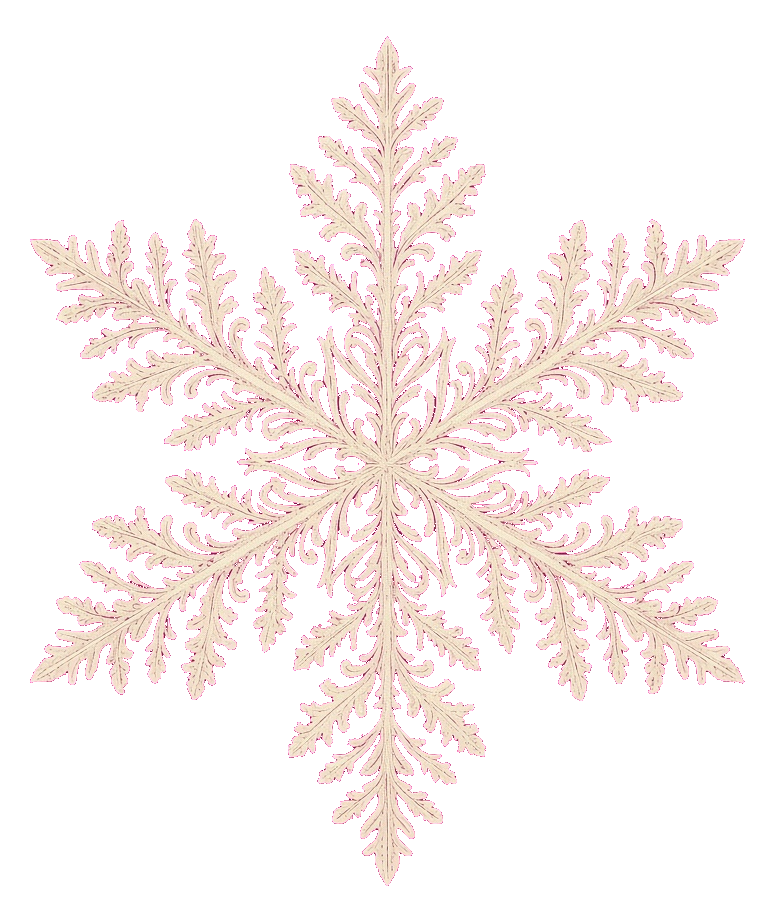
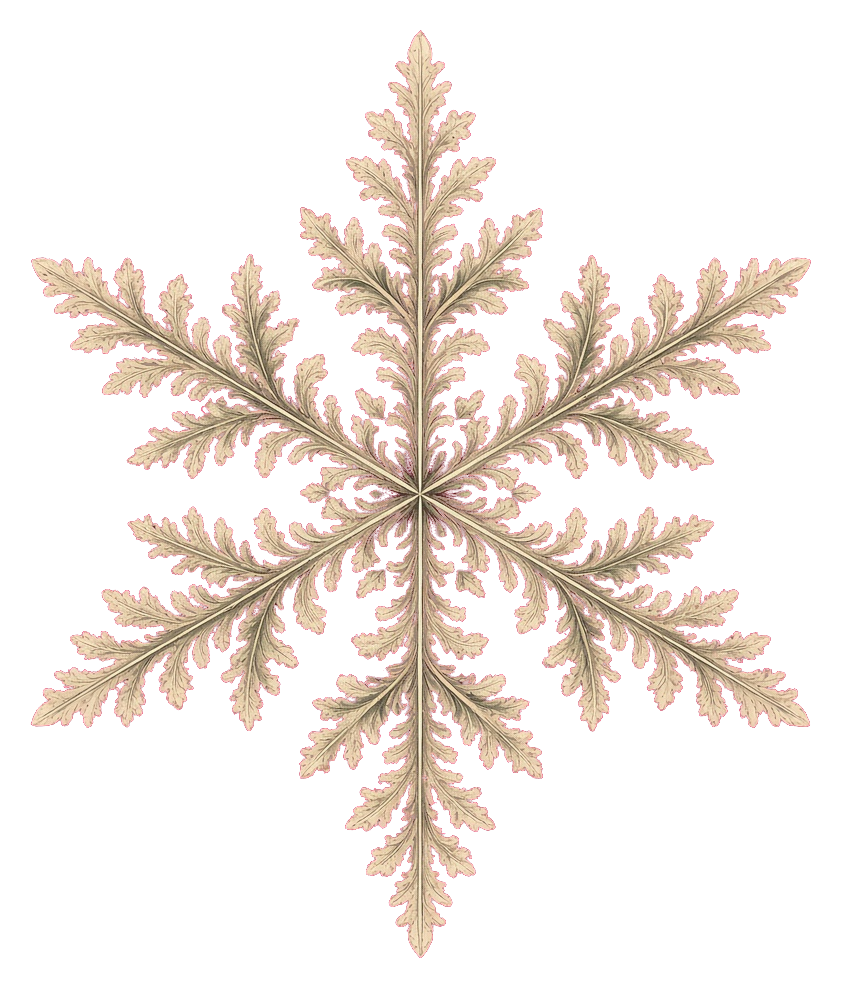
Add GenerateImage vintage snowflake sprites for stage snow
Replace opaque/black-backed flake with keyed ivory filigree PNG,
bump VER to 4, and draw non-pixel snow via snowflake.png instead of
pixel fillRect squares.

diff --git a/src/effects.js b/src/effects.js
@@ -152,6 +152,8 @@ export class EffectsEngine {
       vx: rand(-0.35, 0.35),
       a: rand(0.4, 0.95),
       wobble: rand(0, Math.PI * 2),
+      rot: rand(0, Math.PI * 2),
+      spin: rand(-0.02, 0.02),
       sticky,
       born: performance.now(),
     }
@@ -649,17 +651,23 @@ export class EffectsEngine {
     if (this.fireplace) this._drawFireplace(ctx, this.fireplace, now)
     if (this.tree) this._drawTree(ctx, this.tree)
 
-    // Snow: pixel pack uses square flakes; vintage uses filigree snowflake sprite.
+    // Pixel: square flakes. Non-pixel: style-owned snowflake.png sprites (never reuse pixel snow).
+    const flakeImg = this.sprites.snowflake
+    const useSpriteSnow = artStyleId !== 'pixel' && flakeImg
     for (const f of this.snow) {
-      const s = Math.max(2, Math.round(f.r * 1.6))
-      if (artStyleId === 'vintage' && this.sprites.snowflake) {
-        const size = Math.max(10, s * 4.2)
-        drawSprite(ctx, this.sprites.snowflake, f.x, f.y, size, size, {
-          anchorX: 0.5,
-          anchorY: 0.5,
-          alpha: f.a * 0.92,
-        })
+      if (useSpriteSnow) {
+        f.rot = (f.rot || 0) + (f.spin || 0)
+        const size = Math.max(10, f.r * 7.5)
+        ctx.save()
+        ctx.translate(f.x, f.y)
+        ctx.rotate(f.rot)
+        ctx.globalAlpha = f.a * 0.92
+        ctx.imageSmoothingEnabled = true
+        ctx.imageSmoothingQuality = 'high'
+        ctx.drawImage(flakeImg, -size / 2, -size / 2, size, size)
+        ctx.restore()
       } else {
+        const s = Math.max(2, Math.round(f.r * 1.6))
         ctx.fillStyle = `rgba(255,255,255,${f.a})`
         ctx.fillRect(Math.round(f.x), Math.round(f.y), s, s)
       }

diff --git a/src/vintageAssets.js b/src/vintageAssets.js
@@ -5,7 +5,7 @@ import { loadImage } from './pixelAssets.js'
 
 const BASE = import.meta.env.BASE_URL
 const V = `${BASE}vintage`
-const VER = '3'
+const VER = '4'
 
 export const VINTAGE = {
   guideSnow: `${V}/guide-snow.jpg?v=${VER}`,
